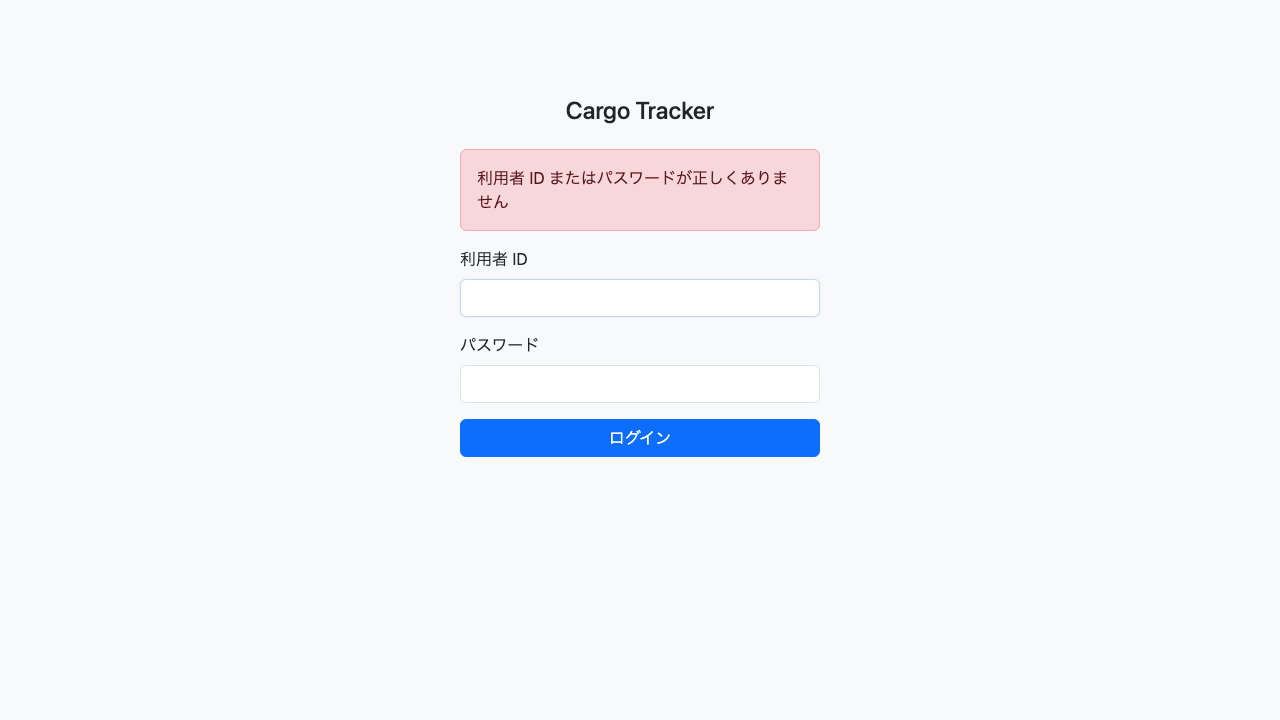
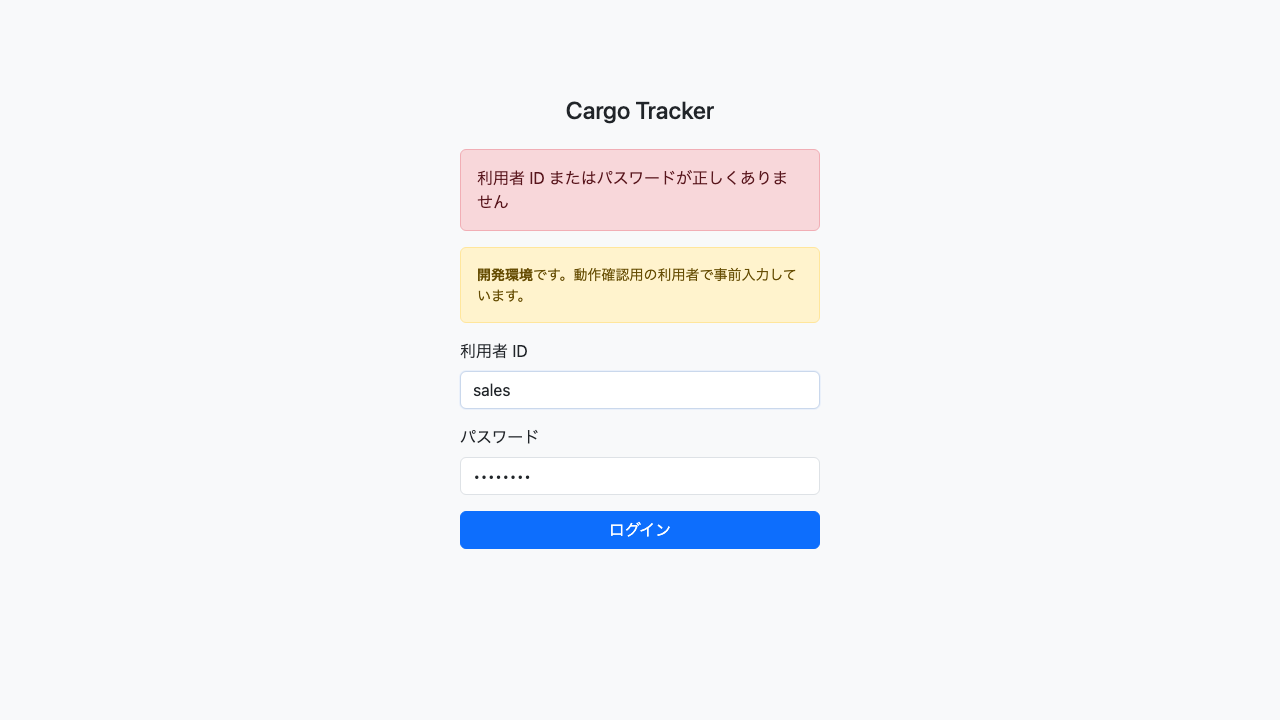
feat(security): 開発環境でログイン情報を事前入力する
画面を触るたびに ID とパスワードを打ち直す手間をなくし、開発の
確認サイクルを速くする。

- app.demo-login.{enabled,username,password} を追加
- **既定は無効。** 有効化を明示した環境（local / dev）でのみ効く。
  「本番でうっかり有効になる」経路を作らないため安全側を既定にした。
  既定で入らないことは DemoLoginPrefillTest が固定している
- 有効時は画面に「開発環境です」と必ず表示する。事前入力していることを
  隠すと、本番同様の画面だと思い込まれる
- 無効化は APP_DEMOLOGIN_ENABLED=false（ハイフンは環境変数名から除く。
  実際に効くことを確認済み）

あわせて、テンプレートの HTML コメントを Thymeleaf のパーサレベル
コメントに変更した。**設計意図がブラウザまで配信されていた。**
特に「ロック中と認証情報の誤りで同一のメッセージを返す。出し分けると
アカウントの存在を攻撃者に教えることになる」という注記が画面のソースに
出ており、これは攻撃者に判断材料を渡すのと同じである。
配信されないことをテストで固定した。

マニュアルと開発環境セットアップ手順書（認証未実装時の記述のままだった）を
実態に合わせて更新し、キャプチャを再生成した。

Changed region(s): [[0.3438, 0.3361, 0.6562, 0.55], [0.3438, 0.7028, 0.6562, 0.7639], [0.3438, 0.5806, 0.6562, 0.6417]]

diff --git a/apps/cargo-tracker/src/main/resources/templates/auth/login.html b/apps/cargo-tracker/src/main/resources/templates/auth/login.html
@@ -10,10 +10,10 @@
 <main class="container" style="max-width: 24rem; padding-top: 6rem;">
   <h1 class="h4 mb-4 text-center">Cargo Tracker</h1>
 
-  <!--
+  <!--/*
     ロック中と認証情報の誤りで同一のメッセージを返す（US31）。
     出し分けるとアカウントの存在を攻撃者に教えることになる。
-  -->
+  */-->
   <div th:if="${param.error}" class="alert alert-danger" role="alert">
     利用者 ID またはパスワードが正しくありません
   </div>
@@ -21,14 +21,24 @@
     ログアウトしました
   </div>
 
+  <!--/*
+    開発環境では認証情報を事前入力する（app.demo-login.enabled）。既定は無効。
+    **事前入力していることを画面に明示する。** 隠すと本番同様の画面だと思い込まれる。
+  */-->
+  <div th:if="${demoLogin}" class="alert alert-warning small" role="status">
+    <strong>開発環境</strong>です。動作確認用の利用者で事前入力しています。
+  </div>
+
   <form th:action="@{/login}" method="post">
     <div class="mb-3">
       <label for="username" class="form-label">利用者 ID</label>
-      <input type="text" id="username" name="username" class="form-control" required autofocus>
+      <input type="text" id="username" name="username" class="form-control" required autofocus
+             th:value="${demoLogin != null} ? ${demoLogin.username()} : null">
     </div>
     <div class="mb-3">
       <label for="password" class="form-label">パスワード</label>
-      <input type="password" id="password" name="password" class="form-control" required>
+      <input type="password" id="password" name="password" class="form-control" required
+             th:value="${demoLogin != null} ? ${demoLogin.password()} : null">
     </div>
     <button type="submit" class="btn btn-primary w-100">ログイン</button>
   </form>

diff --git a/apps/cargo-tracker/src/main/resources/templates/shipper/form.html b/apps/cargo-tracker/src/main/resources/templates/shipper/form.html
@@ -12,10 +12,10 @@
 <main class="container py-4" style="max-width: 40rem;">
   <h1 class="h4 mb-3">荷主登録</h1>
 
-  <!--
+  <!--/*
     同一メールアドレスが既に登録されている場合（US02）。
     登録せず既存を提示し、どちらを使うかは利用者が決める。
-  -->
+  */-->
   <div th:if="${existingShipper}" class="alert alert-warning">
     このメールアドレスは<strong>既に登録</strong>されています。
     <a th:href="@{/shippers/{id}(id=${existingShipper.id().value()})}"

diff --git a/apps/cargo-tracker/src/main/resources/templates/layout/nav.html b/apps/cargo-tracker/src/main/resources/templates/layout/nav.html
@@ -2,10 +2,10 @@
 <html xmlns:th="http://www.thymeleaf.org"
       xmlns:sec="http://www.thymeleaf.org/extras/spring-security" lang="ja">
 <body>
-<!--
+<!--/*
   ナビゲーション。表示ロールの正典は ui_design.md のナビゲーション構成。
   ロールに該当しない項目はサーバ側で出さない（sec:authorize）。
--->
+*/-->
 <nav th:fragment="navbar" class="navbar navbar-expand-lg navbar-dark bg-primary">
   <div class="container">
     <a class="navbar-brand" th:href="@{/}">Cargo Tracker</a>

diff --git a/apps/cargo-tracker/src/main/resources/templates/dashboard.html b/apps/cargo-tracker/src/main/resources/templates/dashboard.html
@@ -15,11 +15,11 @@
     ようこそ、<span sec:authentication="name">利用者</span> さん
   </p>
 
-  <!--
+  <!--/*
     ロール別の作業入口。件数カードは IT2 以降で実装する。
     ここでロールごとの入口を用意しないと、引き渡された担当者が
     対象のレコードに到達できない（ui_design.md のロール別到達性）。
-  -->
+  */-->
   <div class="row g-3">
     <div class="col-md-4" sec:authorize="hasRole('SALES')">
       <div class="card">

diff --git a/apps/cargo-tracker/src/main/resources/templates/public/tracking.html b/apps/cargo-tracker/src/main/resources/templates/public/tracking.html
@@ -9,7 +9,7 @@
 <body class="bg-light">
 <main class="container py-5" style="max-width: 32rem;">
   <h1 class="h4 mb-4">貨物追跡</h1>
-  <!-- 認証不要。個人情報は表示しない（ui_design.md 公開貨物追跡） -->
+  <!--/* 認証不要。個人情報は表示しない（ui_design.md 公開貨物追跡） */-->
   <form th:action="@{/public/tracking}" method="get">
     <div class="mb-3">
       <label for="trackingNumber" class="form-label">追跡番号</label>

diff --git a/apps/cargo-tracker/src/main/resources/templates/fragments/alerts.html b/apps/cargo-tracker/src/main/resources/templates/fragments/alerts.html
@@ -1,7 +1,7 @@
 <!DOCTYPE html>
 <html xmlns:th="http://www.thymeleaf.org" lang="ja">
 <body>
-<!-- PRG のリダイレクト後に操作結果を伝える（ui_design.md のフラッシュメッセージ） -->
+<!--/* PRG のリダイレクト後に操作結果を伝える（ui_design.md のフラッシュメッセージ） */-->
 <div th:fragment="alerts">
   <div th:if="${flashSuccess}" class="alert alert-success" role="status"
        th:text="${flashSuccess}"></div>

diff --git a/apps/cargo-tracker/src/main/resources/templates/shipper/list.html b/apps/cargo-tracker/src/main/resources/templates/shipper/list.html
@@ -16,7 +16,7 @@
     <a class="btn btn-primary" th:href="@{/shippers/new}">+ 新規荷主登録</a>
   </div>
 
-  <!-- 空状態。0 件のとき理由と次アクションを示す（ui_design.md） -->
+  <!--/* 空状態。0 件のとき理由と次アクションを示す（ui_design.md） */-->
   <div th:if="${#lists.isEmpty(shippers)}" class="alert alert-info">
     荷主が登録されていません。まず荷主を登録してください。
   </div>

diff --git a/apps/cargo-tracker/src/test/java/com/example/cargotracker/security/DemoLoginPrefillTest.java b/apps/cargo-tracker/src/test/java/com/example/cargotracker/security/DemoLoginPrefillTest.java
@@ -1,0 +1,75 @@
+package com.example.cargotracker.security;
+
+import static org.springframework.test.web.servlet.request.MockMvcRequestBuilders.get;
+import static org.springframework.test.web.servlet.result.MockMvcResultMatchers.content;
+import static org.springframework.test.web.servlet.result.MockMvcResultMatchers.status;
+
+import com.example.cargotracker.support.PostgreSQLIntegrationTestBase;
+import org.hamcrest.Matchers;
+import org.junit.jupiter.api.Test;
+import org.springframework.boot.webmvc.test.autoconfigure.AutoConfigureMockMvc;
+import org.springframework.test.context.TestPropertySource;
+
+/**
+ * 開発環境のログイン情報の事前入力（{@code app.demo-login}）を検証する。
+ *
+ * <p><strong>既定は無効である。</strong> 有効化していない環境で認証情報が画面に入っていたら、
+ * それは事故である。設定を足したときだけ入ることを、既定値の側から固定する。
+ *
+ * <p>本クラスは既定（無効）を検証する。有効時の挙動は {@link DemoLoginPrefillEnabledTest} が担う。
+ */
+@AutoConfigureMockMvc
+class DemoLoginPrefillTest extends PostgreSQLIntegrationTestBase {
+
+    @Test
+    void 既定ではログイン情報が事前入力されない() throws Exception {
+        mockMvc.perform(get("/login"))
+                .andExpect(status().isOk())
+                .andExpect(content().string(Matchers.not(Matchers.containsString("value=\"sales\""))))
+                .andExpect(content().string(Matchers.not(Matchers.containsString("password\" value=\""))));
+    }
+
+    @Test
+    void 既定では開発環境向けの注意書きが表示されない() throws Exception {
+        mockMvc.perform(get("/login"))
+                .andExpect(status().isOk())
+                .andExpect(content().string(Matchers.not(Matchers.containsString("開発環境"))));
+    }
+
+    @Test
+    void テンプレートのコメントがブラウザに配信されない() throws Exception {
+        // 認可やロックの設計意図をコメントで書いている。**それを画面のソースに載せない。**
+        // 「ロック中と誤りで同じメッセージを返す」理由を配信するのは、
+        // 攻撃者に判断材料を渡すのと同じである
+        mockMvc.perform(get("/login"))
+                .andExpect(status().isOk())
+                .andExpect(content().string(Matchers.not(Matchers.containsString("<!--"))));
+    }
+
+    /** 有効化したときにだけ事前入力される。 */
+    @AutoConfigureMockMvc
+    @TestPropertySource(properties = {
+        "app.demo-login.enabled=true",
+        "app.demo-login.username=sales",
+        "app.demo-login.password=password",
+    })
+    static class DemoLoginPrefillEnabledTest extends PostgreSQLIntegrationTestBase {
+
+        @Test
+        void 有効にすると利用者IDとパスワードが入力済みになる() throws Exception {
+            mockMvc.perform(get("/login"))
+                    .andExpect(status().isOk())
+                    .andExpect(content().string(Matchers.containsString("value=\"sales\"")))
+                    .andExpect(content().string(Matchers.containsString("value=\"password\"")));
+        }
+
+        @Test
+        void 有効にすると開発環境である旨の注意書きが表示される() throws Exception {
+            // 事前入力されていることを利用者に隠さない。
+            // 気づかないまま本番同様の画面だと思われるのが最も危ない
+            mockMvc.perform(get("/login"))
+                    .andExpect(status().isOk())
+                    .andExpect(content().string(Matchers.containsString("開発環境")));
+        }
+    }
+}

diff --git a/apps/cargo-tracker/src/main/java/com/example/cargotracker/shared/infrastructure/web/DemoLoginProperties.java b/apps/cargo-tracker/src/main/java/com/example/cargotracker/shared/infrastructure/web/DemoLoginProperties.java
@@ -1,0 +1,27 @@
+package com.example.cargotracker.shared.infrastructure.web;
+
+import org.springframework.boot.context.properties.ConfigurationProperties;
+
+/**
+ * 開発環境でログイン画面に認証情報を事前入力する設定。
+ *
+ * <p>目的は開発中の確認サイクルを速くすることであり、画面を触るたびに ID とパスワードを
+ * 打ち直す手間をなくす。
+ *
+ * <p><strong>既定は無効である。</strong> 有効化を明示した環境（local / dev）でのみ効く。
+ * 「本番でうっかり有効になる」経路を作らないため、安全側を既定にして opt-in にしている。
+ * 有効時は画面に開発環境である旨を必ず表示する。事前入力されていることを利用者に
+ * 隠すと、本番同様の画面だと思い込まれる。
+ *
+ * @param enabled  事前入力を有効にするか
+ * @param username 事前入力する利用者 ID
+ * @param password 事前入力するパスワード
+ */
+@ConfigurationProperties(prefix = "app.demo-login")
+public record DemoLoginProperties(boolean enabled, String username, String password) {
+
+    public DemoLoginProperties {
+        username = username == null ? "" : username;
+        password = password == null ? "" : password;
+    }
+}

diff --git a/apps/cargo-tracker/src/main/java/com/example/cargotracker/shared/infrastructure/web/HomeController.java b/apps/cargo-tracker/src/main/java/com/example/cargotracker/shared/infrastructure/web/HomeController.java
@@ -1,14 +1,30 @@
 package com.example.cargotracker.shared.infrastructure.web;
 
 import org.springframework.stereotype.Controller;
+import org.springframework.ui.Model;
 import org.springframework.web.bind.annotation.GetMapping;
 
 /** ログイン・ダッシュボード・公開追跡の画面。 */
 @Controller
 public class HomeController {
 
+    private final DemoLoginProperties demoLogin;
+
+    public HomeController(DemoLoginProperties demoLogin) {
+        this.demoLogin = demoLogin;
+    }
+
+    /**
+     * ログイン画面。
+     *
+     * <p>開発環境では認証情報を事前入力する（{@code app.demo-login.enabled}）。
+     * <strong>既定は無効であり、有効化した環境でのみ入る。</strong>
+     */
     @GetMapping("/login")
-    public String login() {
+    public String login(Model model) {
+        if (demoLogin.enabled()) {
+            model.addAttribute("demoLogin", demoLogin);
+        }
         return "auth/login";
     }
 

diff --git a/apps/cargo-tracker/src/main/java/com/example/cargotracker/CargoTrackerApplication.java b/apps/cargo-tracker/src/main/java/com/example/cargotracker/CargoTrackerApplication.java
@@ -2,6 +2,7 @@ package com.example.cargotracker;
 
 import org.springframework.boot.SpringApplication;
 import org.springframework.boot.autoconfigure.SpringBootApplication;
+import org.springframework.boot.context.properties.ConfigurationPropertiesScan;
 
 /**
  * 国際貨物輸送管理システムの起動クラス。
@@ -14,6 +15,7 @@ import org.springframework.boot.autoconfigure.SpringBootApplication;
  * いずれも内部シミュレーションとして実装する。
  */
 @SpringBootApplication
+@ConfigurationPropertiesScan
 public class CargoTrackerApplication {
 
     public static void main(String[] args) {
